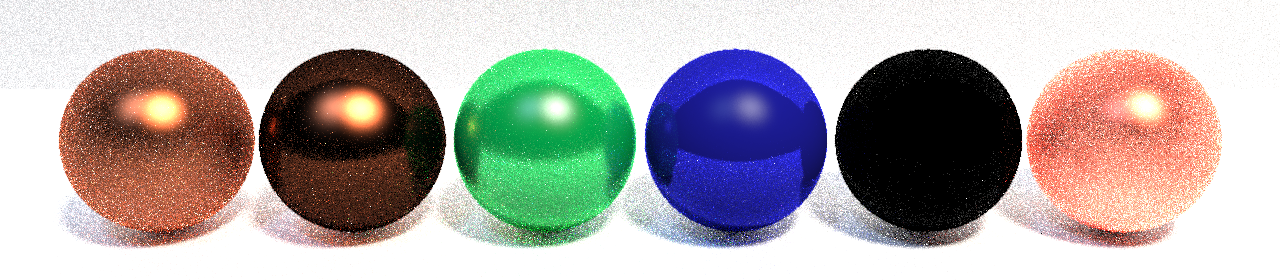
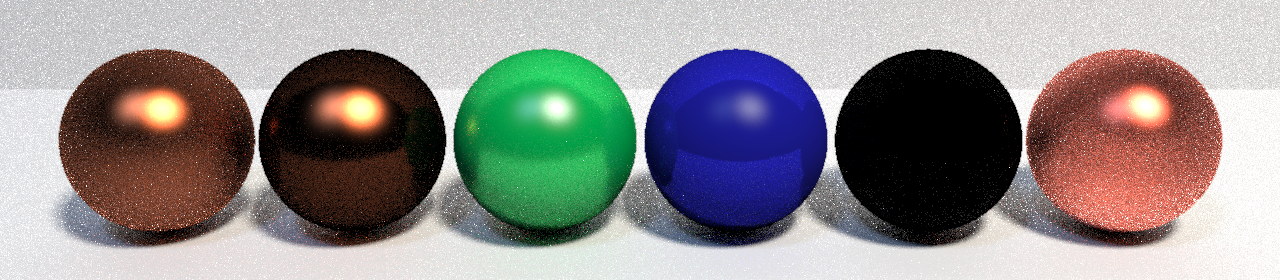
Further improvements but still seeming biased

diff --git a/src/raytracer.cpp b/src/raytracer.cpp
@@ -1319,13 +1319,15 @@ glm::vec3 PathTracerFindColor(UniformGrid* grid, const Ray& ray, Scene* scene, C
 				if (xi0 <= t)
 				{
 					pdf = pSpec * pdfSpec + pdf_ggx;
+					throughput *= brdf * cosTheta / pdf;
 				}
 				else
 				{
 					pdf = pDiffuse * pdfDiffuse + pdf_ggx;
+					throughput *= brdf * cosTheta / pdf;
+
 				}
 
-				throughput *= brdf / pdf;
 			}
 		}
 
